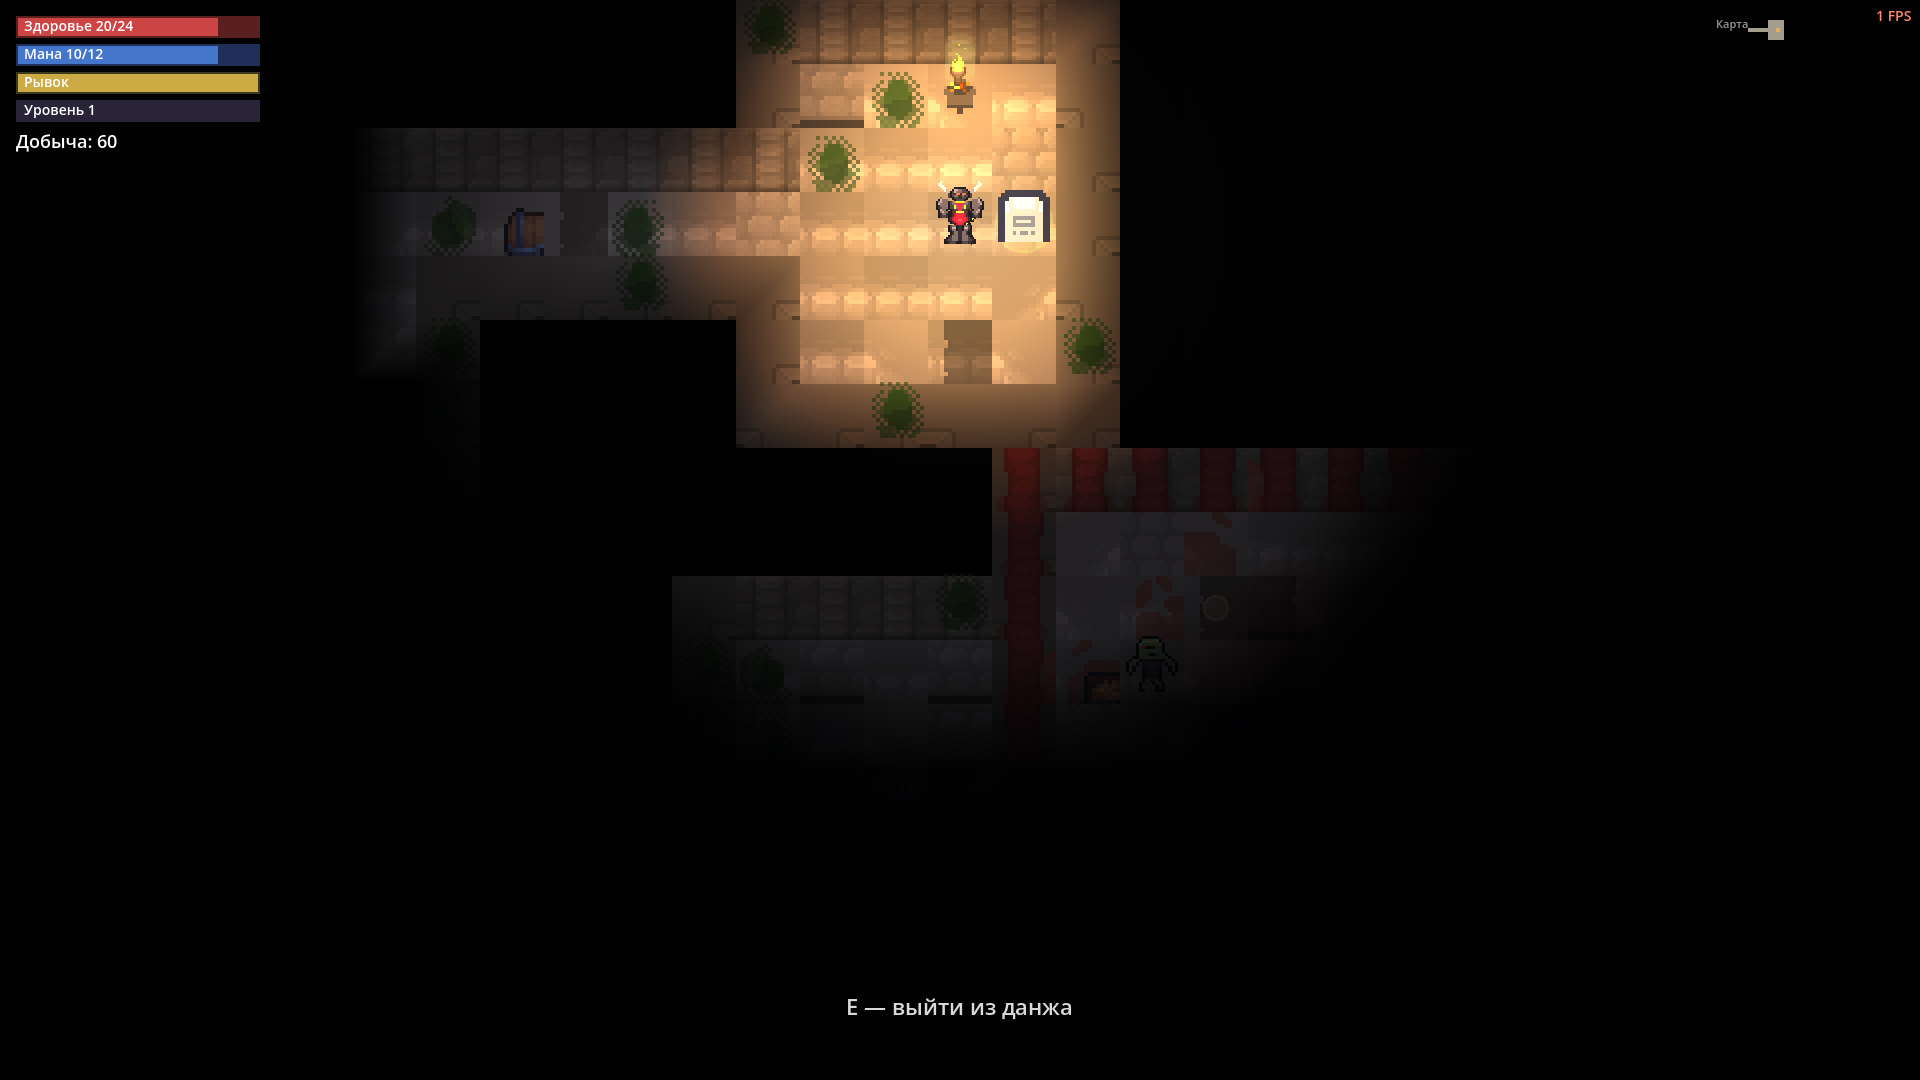
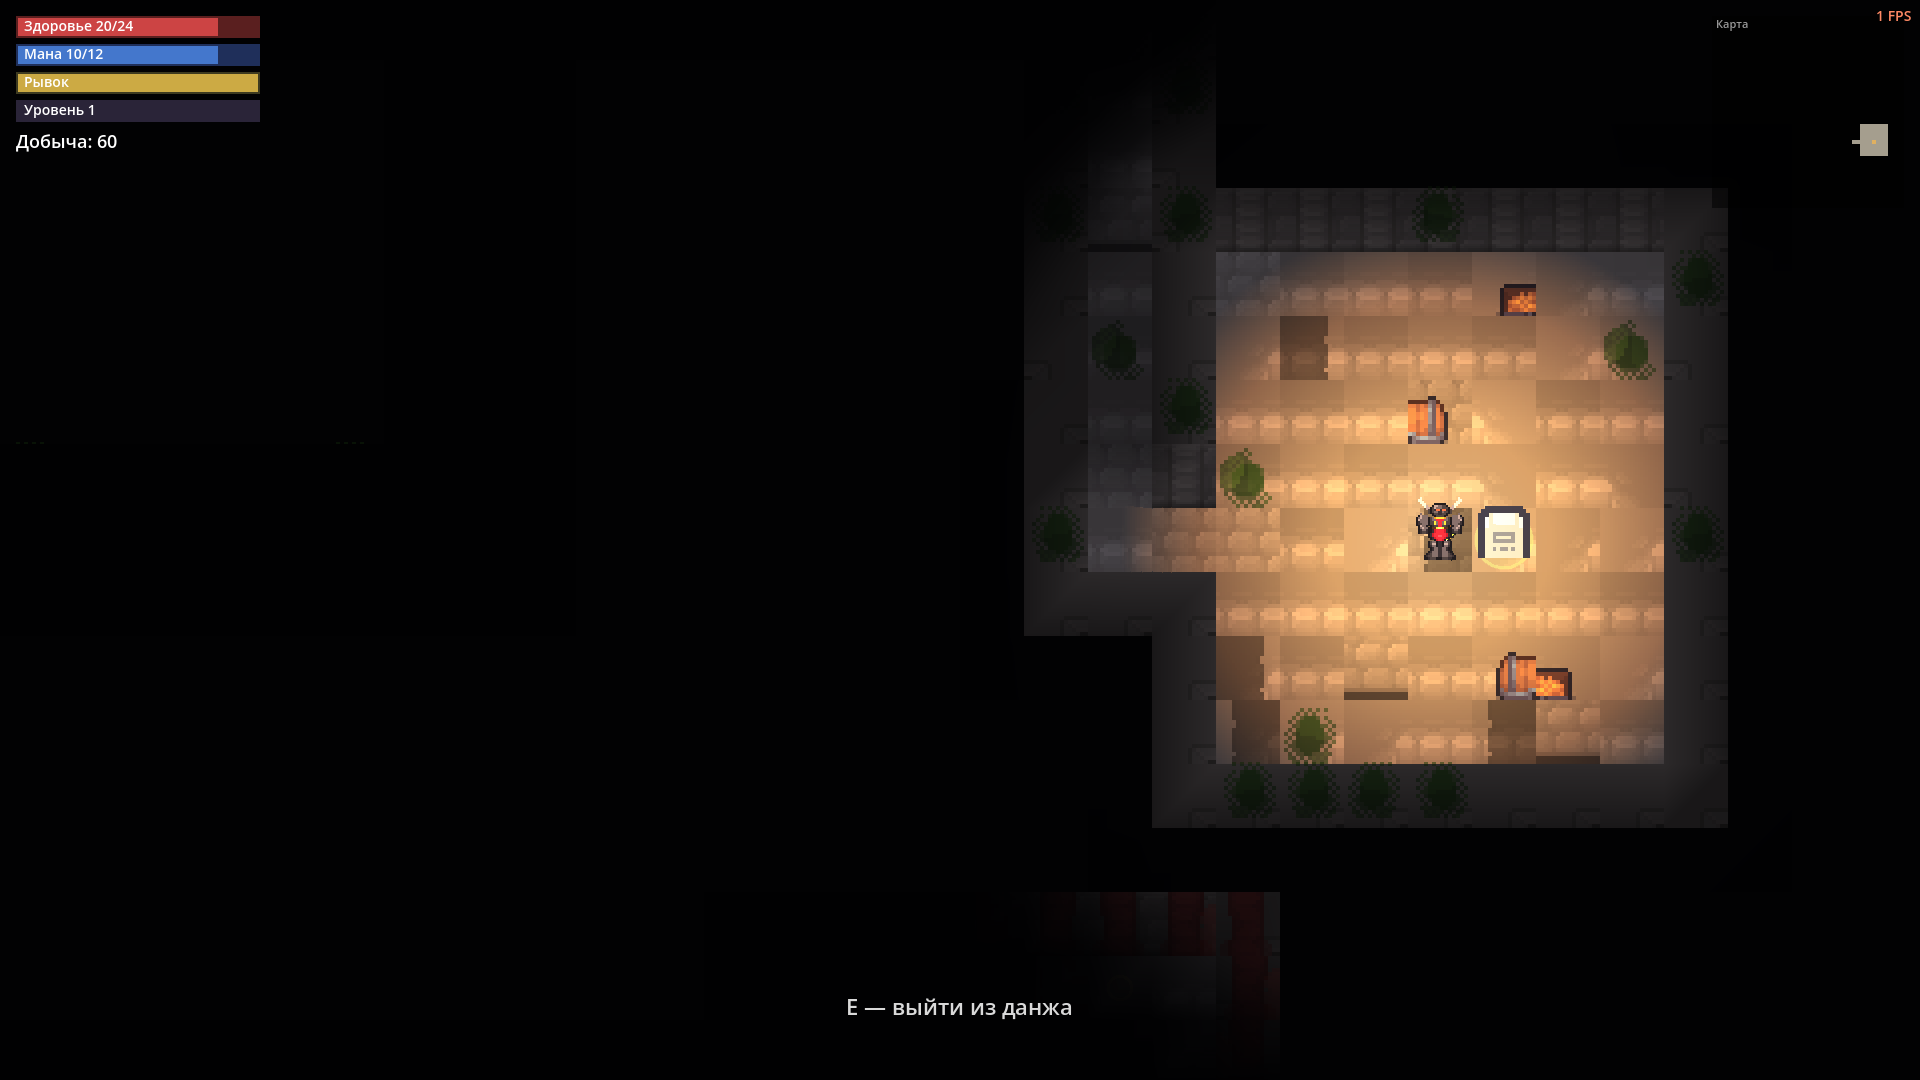
v1.42.1: правки приёмки этапа 4 — свет упирается в стены, факелы гуманоидам, лужи-вода
Фидбек заказчика: синие квадраты (герой проходит сквозь), жаровня как
бочка/сундук, жаровни только там где монстры нуждаются в свете, свет героя
не должен просвечивать сквозь стены.

1. Тени PointLight2D включены (фонарь героя + все источники данжа):
   окклюдеры поштучные с v1.33.3 — экструзия стабильна; туман войны в
   light_mask=0 (тьму подсветки не разъедают). FPS с тенями 83 (v-sync).
2. Факел — пламя НА СТЕНЕ над тайлом, чаша-предмет убрана (не читается
   бочкой/сундуком).
3. Флаг biomes.humanoids: факелы только в данжах с живыми гуманоидами
   (бандитский лагерь, изба Яга); нежить/зверь/демоны — в темноте.
4. Лужи — органические пятна воды (круги со сливами, тёмная середина,
   холодная кромка, блики-рябь), не синие квадраты. Цвета v2.water_*.

Тесты: +проверки (флаги биомов, фильтр факелов, тени), полный прогон
зелёный; headless dungeon — 0 SCRIPT ERROR. Скриншоты:
tools/shot_dungeon2_bandit.png (факелы), ruins/crystal (тьма + лужи).

Следующий шаг: повторная приёмка этапа 4; далее — многоуровневость
данжей (№113–115) отдельным проходом.

diff --git a/CHANGELOG_E2.md b/CHANGELOG_E2.md
@@ -1201,6 +1201,42 @@ README.md.**
 нижнем углу города) и посмотреть; затем этап 2 «Глобальная карта v2»
 программы «Мир v2» — НОВЫЙ чат.**
 
+## Правки приёмки v1.42.1 (2026-11-02, тем же чатом) — свет упирается в стены, факелы гуманоидам, лужи-вода
+
+Фидбек заказчика по скриншоту: «синие квадраты, герой проходит сквозь;
+жаровня как бочка/сундук — непонятно; жаровни только там, где монстры
+нуждаются в свете; свет героя должен упираться в стены, а не просвечивать
+сквозь». Сделано:
+
+1. **Свет упирается в стены**: движковые тени PointLight2D ВКЛЮЧЕНЫ у
+   фонаря героя и всех источников данжа — окклюдеры данжа поштучные
+   (по тайлу стены) с v1.33.3, с ними экструзия стабильна (в v1.33.3
+   глючили слитые полосы — из-за них тени выключали). Туман войны
+   переведён в light_mask=0: тьму подсветки не разъедают вовсе. Замер
+   FPS с тенями: 83 (v-sync, было то же без теней).
+2. **Факел вместо жаровни**: пламя висит НА СТЕНЕ над тайлом
+   (светильник-крепление с угольком), предмет «чаша на полу» убран —
+   больше не читается бочкой/сундуком.
+3. **Факелы только живым**: новый флаг биома `humanoids` — факелы горят
+   лишь в данжах с живыми гуманоидами (бандитский лагерь, изба Яги);
+   нежить/зверь/демоны/драконы сидят в темноте (холодные лужи, порча и
+   фонарь героя остаются везде). Правится в data/dungeon.json.
+4. **Лужи — вода, не предметы**: органические пятна (скруглённые круги
+   по кластеру со сливами-перемычками, тёмная середина + холодная
+   кромка + блики-рябь) вместо синих квадратных тайлов; герой проходит
+   по ним как по мелкой воде. Цвета — v2.water_deep/water_edge.
+
+Тесты: +проверки (флаг humanoids у всех биомов, бандиты — да, фильтр
+факелов в dungeon_lights, тени включены); полный прогон зелёный, headless
+dungeon — 0 SCRIPT ERROR. Скриншоты: tools/shot_dungeon2_bandit.png
+(факелы на стенах), обновлены ruins/crystal (тьма без факелов, лужи).
+
+**Файлы: scripts/hero.gd, dungeon_fog.gd, dungeon_lights.gd (переписан:
+факелы на стенах/фильтр гуманоидов/лужи-пятна), dungeon.gd,
+data/dungeon.json, tests/test_dungeon2.gd, tests/run_all.gd,
+tools/diag_dungeon2.gd (FPS/снимок), tools/shot_dungeon2_*.png,
+data/version.json, README.md.**
+
 ## v1.42.0 (2026-11-02): Мир v2 этап 4 — «Данжи v2»: свет/материалы по референсам
 
 Программа «Мир v2», этап 4 (поручение из плана: сначала свет/материалы —

diff --git a/СЛЕДУЮЩИЙ-ШАГ.md b/СЛЕДУЮЩИЙ-ШАГ.md
@@ -3,8 +3,16 @@
 > Этот файл — первое место, куда смотреть: текущий статус и с чего начать
 > новый чат. Ссылка на него есть в самом верху `README.md`.
 
-## Текущий статус (2026-11-02, «Мир v2» этап 4 «Данжи v2» ВЫПОЛНЕН — ждёт приёмки)
+## Текущий статус (2026-11-02, «Мир v2» этап 4 «Данжи v2» — правки приёмки v1.42.1 готовы, ждёт приёмки)
 
+- **v1.42.1 — правки приёмки этапа 4 (фидбек: синие квадраты-лужи,
+  жаровня-«бочка», свет сквозь стены, факелы только живым):** свет героя и
+  факелов теперь БРОСАЕТ ТЕНЬ ОТ СТЕН и не просвечивает за них (туман
+  вовсе не подсвечивается); жаровня-чаша заменена ФАКЕЛОМ НА СТЕНЕ;
+  факелы горят только в биомах с живыми гуманоидами (biomes.humanoids:
+  бандиты, изба Яги; нежить/зверь — в темноте); лужи — органические
+  пятна воды с кромкой и рябью (герой проходит как по мелкой воде).
+  FPS с тенями 83 (v-sync). Тесты: +проверки фильтра факелов и теней.
 - **ВЫПОЛНЕНО (v1.42.0, 2026-11-02): этап 4 «Данжи v2» — свет/материалы
   по референсам «для Z.ai» из пака заказчика.** Плиты пола + кирпичные
   грани/капы стен (тинт биома на рантайме); свет «тёплый фонарь + холодные

diff --git a/PLAN.md b/PLAN.md
@@ -684,8 +684,10 @@ data/city.json (colors.water_tune). Скриншоты: tools/shot_water.png.
    на 3 городах, 70→2.5 мс на 20; гостевой город — каждый кадр).
    Тюнинг — data/world.json → npc_city. Тесты: tests/test_npc_cities.gd
    (+27 проверок) + tests/smoke_npc.gd (гостевой цикл).
-4. **Данжи v2** — СВЕТ/МАТЕРИАЛЫ ВЫПОЛНЕНЫ (v1.42.0, 2026-11-02, ждёт
-   приёмки): материалы по референсам из пака заказчика («ассеты
+4. **Данжи v2** — СВЕТ/МАТЕРИАЛЫ ВЫПОЛНЕНЫ (v1.42.0, 2026-11-02) + ПРАВКИ
+   ПРИЁМКИ v1.42.1 (свет упирается в стены — тени PointLight2D; факел на
+   стене вместо жаровни-«бочки»; факелы только биомам с живыми
+   гуманоидами biomes.humanoids; лужи — органические пятна воды): материалы по референсам из пака заказчика («ассеты
    подземельев», tools/make_dungeon2.py): плиты пола, кирпичные грани/капы
    стен; свет «тёплый фонарь + холодные пятна» — жаровни с живым огнём и
    холодные бирюзовые лужи; «пепельная порча» комнат (потёки/трещины/

diff --git a/README.md b/README.md
@@ -1,4 +1,4 @@
-# Пепел и Мана — v1.42.0
+# Пепел и Мана — v1.42.1
 
 [![Тесты](https://github.com/SDVGames-Studio/pepel-i-mana/actions/workflows/tests.yml/badge.svg)](https://github.com/SDVGames-Studio/pepel-i-mana/actions/workflows/tests.yml)
 
